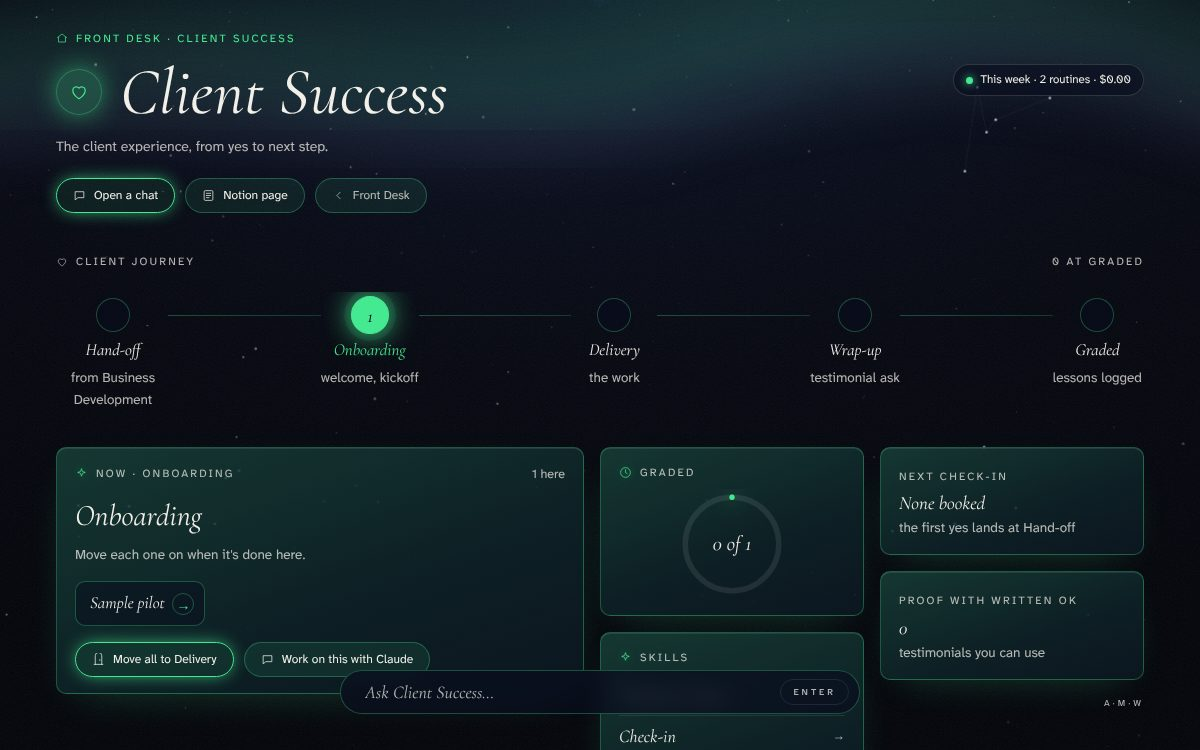
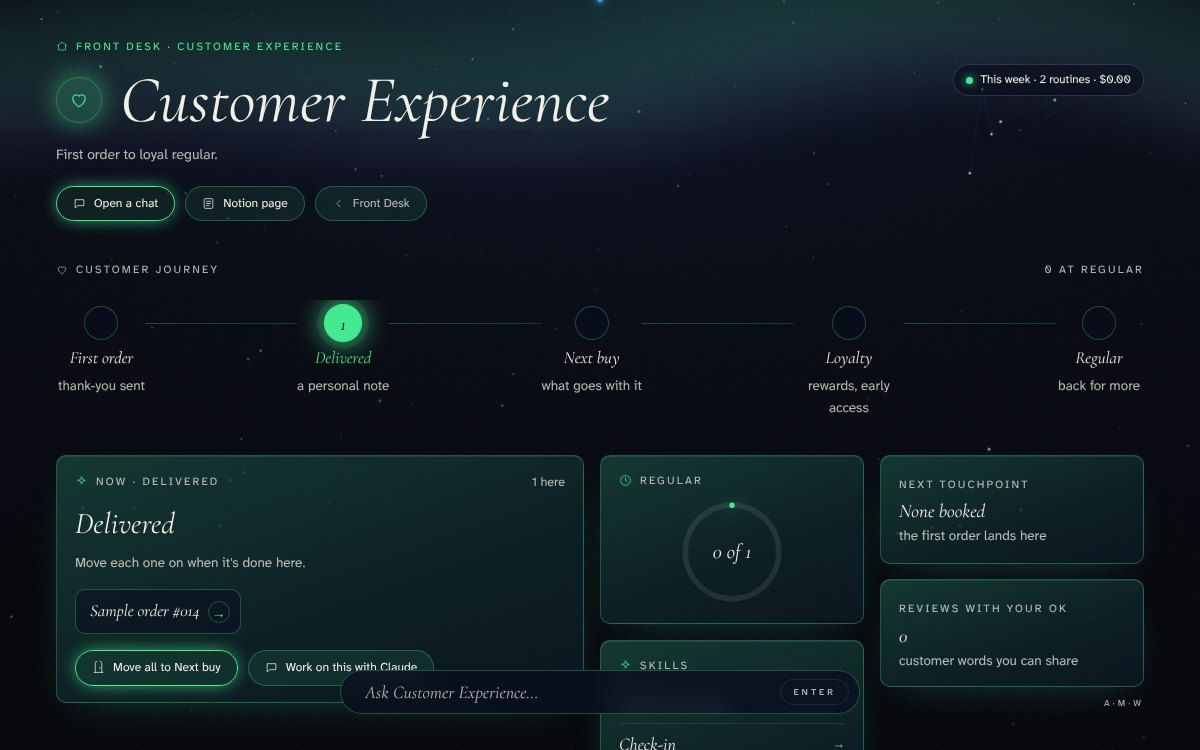
Orbit v1.1 page and site performance pass
Orbit page, reshaped for the sharper ICP:
- Customer Experience helper with a Customer / Community / Client switch
  that swaps the hub image and the helper's name and line
- Your rhythm section (book, collection, single) above "You stay in charge"
- Copy tuned: launch used sparingly in body copy, never in headers;
  closing block names creative, culture-led founders
- Starting-out orbs: hover text fades in without pushing the page down

Site-wide, invisible fixes:
- Home night sky: set its colours on the sky itself, not <html>, and
  measure the page on resize instead of every scroll frame (cuts the
  long tasks while scrolling); phone light line animates with transform
- Opening-at-the-top script no longer yanks visitors back up when the
  page finishes loading after they've started scrolling
- Preload the two opening font faces so headlines don't jump on load

Claude-Session: https://claude.ai/code/session_01FfPBR68zH7fRYW2YepE8Gc

diff --git a/src/orbit/sections-a.html b/src/orbit/sections-a.html
@@ -7,22 +7,27 @@
 
 <section class="pad"><div class="wrap">
   <div class="ch"><p class="caps eyebrow"><i></i>Getting it</p><h2>One conversation. Then it's yours.</h2><p class="body">It asks. It checks with you. Then it builds.</p></div>
-  <div class="flowd"><div class="fn"><svg width="30" height="30" viewBox="0 0 24 24" fill="none" stroke="currentColor" stroke-width="1.5" stroke-linecap="round" stroke-linejoin="round"><path d="M4 5h16v11H9l-5 4z"/></svg><b>1 · The interview</b><span>About an hour. It learns your work, lifestyle, routines, vision and preferences.</span></div><i></i><div class="fn"><svg width="30" height="30" viewBox="0 0 24 24" fill="none" stroke="currentColor" stroke-width="1.5" stroke-linecap="round" stroke-linejoin="round"><path d="M6 3h8l4 4v14H6z"/><path d="M14 3v4h4"/></svg><b>2 · The report</b><span>It plays everything back in full. You fix anything before a thing is built.</span></div><i></i><div class="fn lit"><svg width="30" height="30" viewBox="0 0 24 24" fill="none" stroke="currentColor" stroke-width="1.5" stroke-linecap="round" stroke-linejoin="round"><path d="M3 11l9-7 9 7M5 10v10h14V10"/></svg><b>3 · The build</b><span>Your hub, built the way you said. Opens with a short tour.</span></div></div>
+  <div class="flowd"><div class="fn"><svg width="30" height="30" viewBox="0 0 24 24" fill="none" stroke="currentColor" stroke-width="1.5" stroke-linecap="round" stroke-linejoin="round"><path d="M4 5h16v11H9l-5 4z"/></svg><b>1 · The interview</b><span>About an hour. It learns your work, your rhythm, your people and your vision.</span></div><i></i><div class="fn"><svg width="30" height="30" viewBox="0 0 24 24" fill="none" stroke="currentColor" stroke-width="1.5" stroke-linecap="round" stroke-linejoin="round"><path d="M6 3h8l4 4v14H6z"/><path d="M14 3v4h4"/></svg><b>2 · The report</b><span>It plays everything back in full. You fix anything before a thing is built.</span></div><i></i><div class="fn lit"><svg width="30" height="30" viewBox="0 0 24 24" fill="none" stroke="currentColor" stroke-width="1.5" stroke-linecap="round" stroke-linejoin="round"><path d="M3 11l9-7 9 7M5 10v10h14V10"/></svg><b>3 · The build</b><span>Your hub, built the way you said. Opens with a short tour.</span></div></div>
 </div></section>
 
 <section class="pad"><div class="wrap sp crew">
-  <div class="sl"><div class="ch"><p class="caps eyebrow"><i></i>Your team</p><h2>Six helpers. One pipeline each.</h2></div><div class="hps"><button class="hp on" data-h="bd" style="--hc:#45E992"><i></i><b>Business Development</b><em class="hic"><svg width="16" height="16" viewBox="0 0 24 24" fill="none" stroke="currentColor" stroke-width="1.5" stroke-linecap="round" stroke-linejoin="round"><circle cx="12" cy="12" r="9"/><path d="M15.5 8.5l-2 5-5 2 2-5z"/></svg></em><span>Finds the people your work is for</span></button><button class="hp" data-h="cs" style="--hc:#45E992"><i></i><b>Client Success</b><em class="hic"><svg width="16" height="16" viewBox="0 0 24 24" fill="none" stroke="currentColor" stroke-width="1.5" stroke-linecap="round" stroke-linejoin="round"><path d="M12 20s-7.5-4.6-7.5-10.2A4.2 4.2 0 0 1 12 7.4a4.2 4.2 0 0 1 7.5 2.4C19.5 15.4 12 20 12 20z"/></svg></em><span>From yes to a glowing wrap-up</span></button><button class="hp" data-h="cd" style="--hc:#A996FF"><i></i><b>Creative Director</b><em class="hic"><svg width="16" height="16" viewBox="0 0 24 24" fill="none" stroke="currentColor" stroke-width="1.5" stroke-linecap="round" stroke-linejoin="round"><path d="M2 12s3.8-7 10-7 10 7 10 7-3.8 7-10 7S2 12 2 12z"/><circle cx="12" cy="12" r="3"/></svg></em><span>Keeps your brand and look sharp</span></button><button class="hp" data-h="cp" style="--hc:#A996FF"><i></i><b>Content Producer</b><em class="hic"><svg width="16" height="16" viewBox="0 0 24 24" fill="none" stroke="currentColor" stroke-width="1.5" stroke-linecap="round" stroke-linejoin="round"><rect x="3" y="7" width="12" height="10" rx="2"/><path d="M15 11l6-3v8l-6-3"/></svg></em><span>Turns your ideas and stories into content</span></button><button class="hp" data-h="fo" style="--hc:#4FA8FF"><i></i><b>Funnel OS</b><em class="hic"><svg width="16" height="16" viewBox="0 0 24 24" fill="none" stroke="currentColor" stroke-width="1.5" stroke-linecap="round" stroke-linejoin="round"><path d="M3 4h18l-7 8.5V19l-4 2v-8.5z"/></svg></em><span>Your site, emails and numbers</span></button><button class="hp" data-h="ops" style="--hc:#4FA8FF"><i></i><b>Operations</b><em class="hic"><svg width="16" height="16" viewBox="0 0 24 24" fill="none" stroke="currentColor" stroke-width="1.5" stroke-linecap="round" stroke-linejoin="round"><circle cx="12" cy="12" r="3"/><path d="M12 2v3M12 19v3M2 12h3M19 12h3M4.9 4.9l2.1 2.1M17 17l2.1 2.1M4.9 19.1L7 17M17 7l2.1-2.1"/></svg></em><span>Keeps the whole system in sync</span></button></div></div>
-  <div class="sr"><div class="frame"><div class="rooms"><img data-room="bd" src="__BASE__orbit/09c015c9b7.jpg" alt="Business Development room"><img data-room="cs" src="__BASE__orbit/c768620e99.jpg" alt="Client Success room" hidden><img data-room="cd" src="__BASE__orbit/540423a56b.jpg" alt="Creative Director room" hidden><img data-room="cp" src="__BASE__orbit/80f452b5d3.jpg" alt="Content Producer room" hidden><img data-room="fo" src="__BASE__orbit/4d8e31e8c6.jpg" alt="Funnel OS room" hidden><img data-room="ops" src="__BASE__orbit/713550e906.jpg" alt="Operations room" hidden></div></div></div>
+  <div class="sl"><div class="ch"><p class="caps eyebrow"><i></i>Your team</p><h2>Six helpers. One pipeline each.</h2></div><div class="hps"><button class="hp on" data-h="bd" style="--hc:#45E992"><i></i><b>Business Development</b><em class="hic"><svg width="16" height="16" viewBox="0 0 24 24" fill="none" stroke="currentColor" stroke-width="1.5" stroke-linecap="round" stroke-linejoin="round"><circle cx="12" cy="12" r="9"/><path d="M15.5 8.5l-2 5-5 2 2-5z"/></svg></em><span>Finds the stockists, partners and people your work is for</span></button><button class="hp" data-h="cs" style="--hc:#45E992"><i></i><b>Customer Experience</b><em class="hic"><svg width="16" height="16" viewBox="0 0 24 24" fill="none" stroke="currentColor" stroke-width="1.5" stroke-linecap="round" stroke-linejoin="round"><path d="M12 20s-7.5-4.6-7.5-10.2A4.2 4.2 0 0 1 12 7.4a4.2 4.2 0 0 1 7.5 2.4C19.5 15.4 12 20 12 20z"/></svg></em><span>First order, delivery, the next buy, loyalty</span></button><button class="hp" data-h="cd" style="--hc:#A996FF"><i></i><b>Creative Director</b><em class="hic"><svg width="16" height="16" viewBox="0 0 24 24" fill="none" stroke="currentColor" stroke-width="1.5" stroke-linecap="round" stroke-linejoin="round"><path d="M2 12s3.8-7 10-7 10 7 10 7-3.8 7-10 7S2 12 2 12z"/><circle cx="12" cy="12" r="3"/></svg></em><span>Keeps everything looking like your world</span></button><button class="hp" data-h="cp" style="--hc:#A996FF"><i></i><b>Content Producer</b><em class="hic"><svg width="16" height="16" viewBox="0 0 24 24" fill="none" stroke="currentColor" stroke-width="1.5" stroke-linecap="round" stroke-linejoin="round"><rect x="3" y="7" width="12" height="10" rx="2"/><path d="M15 11l6-3v8l-6-3"/></svg></em><span>Turns the story behind each release into content</span></button><button class="hp" data-h="fo" style="--hc:#4FA8FF"><i></i><b>Funnel OS</b><em class="hic"><svg width="16" height="16" viewBox="0 0 24 24" fill="none" stroke="currentColor" stroke-width="1.5" stroke-linecap="round" stroke-linejoin="round"><path d="M3 4h18l-7 8.5V19l-4 2v-8.5z"/></svg></em><span>Your site, emails and launch pages</span></button><button class="hp" data-h="ops" style="--hc:#4FA8FF"><i></i><b>Operations</b><em class="hic"><svg width="16" height="16" viewBox="0 0 24 24" fill="none" stroke="currentColor" stroke-width="1.5" stroke-linecap="round" stroke-linejoin="round"><circle cx="12" cy="12" r="3"/><path d="M12 2v3M12 19v3M2 12h3M19 12h3M4.9 4.9l2.1 2.1M17 17l2.1 2.1M4.9 19.1L7 17M17 7l2.1-2.1"/></svg></em><span>Keeps the whole system in sync</span></button></div></div>
+  <div class="sr"><div class="frame"><div class="rooms"><img data-room="bd" src="__BASE__orbit/09c015c9b7.jpg" alt="Business Development room"><img data-room="cs" src="__BASE__orbit/c768620e99.jpg" alt="Customer Experience room" hidden><img data-room="cd" src="__BASE__orbit/540423a56b.jpg" alt="Creative Director room" hidden><img data-room="cp" src="__BASE__orbit/80f452b5d3.jpg" alt="Content Producer room" hidden><img data-room="fo" src="__BASE__orbit/4d8e31e8c6.jpg" alt="Funnel OS room" hidden><img data-room="ops" src="__BASE__orbit/713550e906.jpg" alt="Operations room" hidden></div></div><div class="cxsw" data-room="cs" hidden role="tablist" aria-label="Who buys from you"><button type="button" class="on" data-cx="customer">Customer</button><button type="button" data-cx="community">Community</button><button type="button" data-cx="client">Client</button></div></div>
 </div></section>
 
 <section class="pad"><div class="wrap">
   <div class="ch"><p class="caps eyebrow"><i></i>Starting out?</p><h2>The basics, already started.</h2><p class="body">Every gap is a guided session, from idea to plan.</p></div>
-  <div class="sky7"><div class="orb" style="--i:0"><span class="od"><svg width="28" height="28" viewBox="0 0 24 24" fill="none" stroke="currentColor" stroke-width="1.4" stroke-linecap="round" stroke-linejoin="round"><path d="M8 3c0 6 8 6 8 12s-8 6-8 6M16 3c0 6-8 6-8 12s8 6 8 6M9 7h6M9 17h6"/></svg></span><b>Your brand</b><em>The seed</em><small>Voice, look and story, in one place</small></div><div class="orb" style="--i:1"><span class="od"><svg width="28" height="28" viewBox="0 0 24 24" fill="none" stroke="currentColor" stroke-width="1.4" stroke-linecap="round" stroke-linejoin="round"><circle cx="12" cy="12" r="9"/><path d="M15.5 8.5l-2 5-5 2 2-5z"/></svg></span><b>Your mission</b><em>The compass</em><small>Why you do it, in one line</small></div><div class="orb" style="--i:2"><span class="od"><svg width="28" height="28" viewBox="0 0 24 24" fill="none" stroke="currentColor" stroke-width="1.4" stroke-linecap="round" stroke-linejoin="round"><circle cx="12" cy="8" r="3.5"/><path d="M5 21c0-4 3-6.5 7-6.5s7 2.5 7 6.5"/></svg></span><b>Your customer</b><em>The guest of honour</em><small>Who you’re for, and what they need</small></div><div class="orb" style="--i:3"><span class="od"><svg width="28" height="28" viewBox="0 0 24 24" fill="none" stroke="currentColor" stroke-width="1.4" stroke-linecap="round" stroke-linejoin="round"><rect x="5" y="3" width="14" height="18" rx="2"/><path d="M9 8h6M9 12h6M9 16h3"/></svg></span><b>Your offer</b><em>The menu</em><small>Priced from the life you want</small></div><div class="orb" style="--i:4"><span class="od"><svg width="28" height="28" viewBox="0 0 24 24" fill="none" stroke="currentColor" stroke-width="1.4" stroke-linecap="round" stroke-linejoin="round"><path d="M3 4h18l-7 8v6l-4 2v-8z"/></svg></span><b>Your funnel</b><em>The path</em><small>How a stranger becomes a client</small></div><div class="orb" style="--i:5"><span class="od"><svg width="28" height="28" viewBox="0 0 24 24" fill="none" stroke="currentColor" stroke-width="1.4" stroke-linecap="round" stroke-linejoin="round"><circle cx="12" cy="12" r="9"/><path d="M12 7v5l3 2"/></svg></span><b>Your routine</b><em>The weekly beat</em><small>When you make, rest and ship</small></div>
+  <div class="sky7"><div class="orb" style="--i:0"><span class="od"><svg width="28" height="28" viewBox="0 0 24 24" fill="none" stroke="currentColor" stroke-width="1.4" stroke-linecap="round" stroke-linejoin="round"><path d="M8 3c0 6 8 6 8 12s-8 6-8 6M16 3c0 6-8 6-8 12s8 6 8 6M9 7h6M9 17h6"/></svg></span><b>Your brand</b><em>The seed</em><small>Voice, look and story, in one place</small></div><div class="orb" style="--i:1"><span class="od"><svg width="28" height="28" viewBox="0 0 24 24" fill="none" stroke="currentColor" stroke-width="1.4" stroke-linecap="round" stroke-linejoin="round"><circle cx="12" cy="12" r="9"/><path d="M15.5 8.5l-2 5-5 2 2-5z"/></svg></span><b>Your mission</b><em>The compass</em><small>Why you do it, in one line</small></div><div class="orb" style="--i:2"><span class="od"><svg width="28" height="28" viewBox="0 0 24 24" fill="none" stroke="currentColor" stroke-width="1.4" stroke-linecap="round" stroke-linejoin="round"><circle cx="12" cy="8" r="3.5"/><path d="M5 21c0-4 3-6.5 7-6.5s7 2.5 7 6.5"/></svg></span><b>Your customer</b><em>The guest of honour</em><small>Who it’s for, and why they’ll care</small></div><div class="orb" style="--i:3"><span class="od"><svg width="28" height="28" viewBox="0 0 24 24" fill="none" stroke="currentColor" stroke-width="1.4" stroke-linecap="round" stroke-linejoin="round"><rect x="5" y="3" width="14" height="18" rx="2"/><path d="M9 8h6M9 12h6M9 16h3"/></svg></span><b>Your offer</b><em>The menu</em><small>Priced from the life you want</small></div><div class="orb" style="--i:4"><span class="od"><svg width="28" height="28" viewBox="0 0 24 24" fill="none" stroke="currentColor" stroke-width="1.4" stroke-linecap="round" stroke-linejoin="round"><path d="M3 4h18l-7 8v6l-4 2v-8z"/></svg></span><b>Your funnel</b><em>The path</em><small>How a stranger becomes a customer</small></div><div class="orb" style="--i:5"><span class="od"><svg width="28" height="28" viewBox="0 0 24 24" fill="none" stroke="currentColor" stroke-width="1.4" stroke-linecap="round" stroke-linejoin="round"><circle cx="12" cy="12" r="9"/><path d="M12 7v5l3 2"/></svg></span><b>Your rhythm</b><em>The weekly beat</em><small>When you make, rest and release</small></div>
+</div></section>
+
+<section class="pad rhythm"><div class="wrap">
+  <div class="ch"><p class="caps eyebrow"><i></i>Your rhythm</p><h2>Your work keeps its own time.</h2><p class="body">Orbit sets its clock to yours.</p></div>
+  <div class="rhy"><div class="rhy-row"><div class="rh1" style="--c:#7FD8F0;--t:36s"><div class="rh-orb"><span class="rh-trail"></span><span class="rh-sat"></span><span class="rh-core"><svg width="30" height="30" viewBox="0 0 24 24" fill="none" stroke="currentColor" stroke-width="1.4" stroke-linecap="round" stroke-linejoin="round"><path d="M2 5.5c3.2-1.2 6.5-1 10 1.2v13.6c-3.5-2.2-6.8-2.4-10-1.2z"/><path d="M22 5.5c-3.2-1.2-6.5-1-10 1.2v13.6c3.5-2.2 6.8-2.4 10-1.2z"/></svg></span></div><b>A book</b><span class="when">every year or two</span></div><div class="rh1" style="--c:#8FB4F6;--t:14s"><div class="rh-orb"><span class="rh-trail"></span><span class="rh-sat"></span><span class="rh-core"><svg width="30" height="30" viewBox="0 0 24 24" fill="none" stroke="currentColor" stroke-width="1.4" stroke-linecap="round" stroke-linejoin="round"><path d="M8.5 3 3 6l2 4.2 3-1.2V21h8V9l3 1.2L21 6l-5.5-3c-.8 1.4-2 2.1-3.5 2.1S9.3 4.4 8.5 3z"/></svg></span></div><b>A collection</b><span class="when">every season</span></div><div class="rh1" style="--c:#A996FF;--t:5s"><div class="rh-orb"><span class="rh-trail"></span><span class="rh-sat"></span><span class="rh-core"><svg width="30" height="30" viewBox="0 0 24 24" fill="none" stroke="currentColor" stroke-width="1.4" stroke-linecap="round" stroke-linejoin="round"><path d="M9 18V5.5l11-2.2V16"/><circle cx="6" cy="18" r="3"/><circle cx="17" cy="16" r="3"/></svg></span></div><b>A single</b><span class="when">every month</span></div></div><p class="rhy-note">In between launches, your world keeps turning.</p></div>
 </div></section>
 
 <section class="pad"><div class="wrap">
   <div class="ch"><p class="caps eyebrow"><i></i>You stay in charge</p><h2>Nothing moves without you.</h2></div>
-  <div class="trio3"><figure class="tc"><div class="ti mk"><div class="mk-card"><p>Move <b>a fashion label</b> from <em>Engaged</em> to <em>Shared Value</em>?</p><div class="mk-row"><span class="mk-yes">Yes, move it</span><span class="mk-no">Not yet</span></div></div></div><figcaption><b>A check first</b><span>Nothing moves until you tap yes.</span></figcaption></figure><figure class="tc"><div class="ti mk"><div class="mk-notes"><div class="mk-n"><i></i><div><b>Follow-up due today</b><small>A fashion label</small></div><span>Open it</span></div><div class="mk-n"><i></i><div><b>Overdue: funnel audit</b><small>due 28 Oct</small></div><span>Open it</span></div></div></div><figcaption><b>Only what matters</b><span>Just what’s due or overdue. No noise.</span></figcaption></figure><figure class="tc"><div class="ti mk"><div class="mk-use"><span class="mk-chip"><i></i>This week · 2 routines · $0.00</span><div class="mk-rows"><p><span>Routines that ran</span><span>2 of 3</span></p><p><span>Paid add-ons</span><span>$0</span></p></div></div></div><figcaption><b>Track your usage</b><span>Nothing to pay beyond your Claude plan. Add a paid tool and you’ll see it here.</span></figcaption></figure></div>
+  <div class="trio3"><figure class="tc"><div class="ti mk"><div class="mk-card"><p>Move <b>a Fitzroy stockist</b> from <em>Samples sent</em> to <em>Confirmed</em>?</p><div class="mk-row"><span class="mk-yes">Yes, move it</span><span class="mk-no">Not yet</span></div></div></div><figcaption><b>A check first</b><span>Nothing moves until you tap yes.</span></figcaption></figure><figure class="tc"><div class="ti mk"><div class="mk-notes"><div class="mk-n"><i></i><div><b>Follow-up due today</b><small>A Fitzroy stockist</small></div><span>Open it</span></div><div class="mk-n"><i></i><div><b>Overdue: funnel audit</b><small>due 28 Oct</small></div><span>Open it</span></div></div></div><figcaption><b>Only what matters</b><span>Just what’s due or overdue. No noise.</span></figcaption></figure><figure class="tc"><div class="ti mk"><div class="mk-use"><span class="mk-chip"><i></i>This week · 2 routines · $0.00</span><div class="mk-rows"><p><span>Routines that ran</span><span>2 of 3</span></p><p><span>Paid add-ons</span><span>$0</span></p></div></div></div><figcaption><b>Track your usage</b><span>Nothing to pay beyond your Claude plan. Add a paid tool and you’ll see it here.</span></figcaption></figure></div>
 </div></section>
 
 <section class="pad learns"><div class="wrap">
@@ -38,7 +43,7 @@
       <p class="caps lw-rt">Recos <em>· from your hub</em></p>
       <div class="lw-r"><div><p class="caps">Process · Operations</p><b>Turn Decisions into a database</b><small>Easier to read back</small></div><span class="lw-sz">Small</span><span class="lw-add on">Added</span></div>
       <div class="lw-r"><div><p class="caps">Content</p><b>Batch captions with the monthly worksheet</b><small>One sitting instead of four</small></div><span class="lw-sz">Small</span><span class="lw-add">Add to cart</span></div>
-      <div class="lw-r"><div><p class="caps">Sales · Business Development</p><b>Add a two-day follow-up to outreach</b><small>Most replies come on the second nudge</small></div><span class="lw-sz">Medium</span><span class="lw-add">Add to cart</span></div>
+      <div class="lw-r"><div><p class="caps">Sales · Business Development</p><b>Add a two-day follow-up to stockist outreach</b><small>Most replies come on the second nudge</small></div><span class="lw-sz">Medium</span><span class="lw-add">Add to cart</span></div>
       <div class="lw-co"><span>1 in your cart</span><span class="lw-go">Check out to Operations</span></div>
     </div>
   </div>
@@ -89,4 +94,4 @@
 
 
 <section class="pad" id="close"><div class="wrap">
-  <div class="cta"><div class="copy"><p class="caps eyebrow"><i></i>Free, for good</p><h2>Set your world in motion.</h2></div>
+  <div class="cta"><div class="copy"><p class="caps eyebrow"><i></i>Free, for good</p><h2>Set your world in motion.</h2><p class="body forwho">Made for creative, culture-led founders.</p></div>

diff --git a/src/styles/orbit-v04.css b/src/styles/orbit-v04.css
@@ -407,3 +407,32 @@
   .nx .lw-path b{font-size:23px}
   .nx .lw-r:nth-of-type(3){display:none}
 }
+
+/* Orbit v1.1: the faint hint under Customer experience */
+.nx .hp b .hint{display:block;font:400 11px/1.4 'DM Sans',sans-serif;font-style:normal;letter-spacing:.04em;color:var(--d);opacity:.5;margin-top:2px}
+/* Orbit v1.1: your rhythm, three launches, three speeds */
+.nx .rhythm .ch{margin-bottom:28px}
+.nx .rhy{position:relative;max-width:980px;margin:0 auto;padding:clamp(34px,4.5vw,52px) clamp(18px,3vw,40px) clamp(26px,3.5vw,36px);border:1px solid var(--line);border-radius:20px;overflow:hidden;
+  background:radial-gradient(60% 90% at 18% 0%,rgba(127,216,240,.10),transparent 70%),radial-gradient(60% 90% at 82% 100%,rgba(169,150,255,.12),transparent 70%),rgba(255,255,255,.015);
+  box-shadow:0 40px 90px -40px #000,0 0 80px -30px rgba(143,180,246,.25)}
+.nx .rhy-row{position:relative;display:grid;grid-template-columns:repeat(3,1fr);gap:clamp(12px,2vw,28px)}
+.nx .rhy-row::before{content:"";position:absolute;top:84px;left:16%;right:16%;height:1px;background:linear-gradient(90deg,rgba(127,216,240,.0),rgba(143,180,246,.35),rgba(169,150,255,.0));}
+.nx .rh1{position:relative;display:flex;flex-direction:column;align-items:center;text-align:center;gap:4px}
+.nx .rh1 .rh-orb{position:relative;width:168px;height:168px;margin-bottom:16px}
+.nx .rh1 .rh-orb::before{content:"";position:absolute;inset:0;border-radius:50%;border:1px solid color-mix(in srgb,var(--c) 30%,transparent)}
+.nx .rh1 .rh-orb::after{content:"";position:absolute;inset:22px;border-radius:50%;border:1px dashed color-mix(in srgb,var(--c) 16%,transparent)}
+.nx .rh1 .rh-trail{position:absolute;inset:0;border-radius:50%;background:conic-gradient(from 0deg,transparent 0 70%,color-mix(in srgb,var(--c) 55%,transparent) 100%);
+  -webkit-mask:radial-gradient(farthest-side,transparent calc(100% - 2px),#000 calc(100% - 1px));mask:radial-gradient(farthest-side,transparent calc(100% - 2px),#000 calc(100% - 1px));animation:rspin var(--t) linear infinite}
+.nx .rh1 .rh-sat{position:absolute;inset:0;animation:rspin var(--t) linear infinite}
+.nx .rh1 .rh-sat::before{content:"";position:absolute;top:-5px;left:50%;width:10px;height:10px;margin-left:-5px;border-radius:50%;background:#fff;box-shadow:0 0 10px var(--c),0 0 24px var(--c)}
+.nx .rh1 .rh-core{position:absolute;inset:44px;border-radius:50%;display:grid;place-items:center;color:var(--c);
+  background:radial-gradient(circle at 50% 40%,color-mix(in srgb,var(--c) 22%,transparent),rgba(7,11,24,.6) 70%);box-shadow:inset 0 0 0 1px color-mix(in srgb,var(--c) 45%,transparent),0 0 40px -6px var(--c)}
+.nx .rh1 .rh-core svg{filter:drop-shadow(0 0 6px var(--c))}
+.nx .rh1 b{font:italic 400 26px var(--serif);color:#F2F5FF;font-weight:400}
+.nx .rh1 .when{font-size:12px;letter-spacing:.24em;text-transform:uppercase;color:var(--c)}
+.nx .rhy-note{text-align:center;margin:clamp(26px,3.5vw,36px) auto 0;padding-top:clamp(20px,3vw,28px);border-top:1px solid var(--line);color:var(--s);font-family:var(--serif);font-style:italic;font-size:21px;max-width:none}
+@keyframes rspin{to{transform:rotate(360deg)}}
+@media (prefers-reduced-motion:reduce){.nx .rh1 .rh-trail,.nx .rh1 .rh-sat{animation:none}}
+@media (max-width:640px){.nx .rhy-row{grid-template-columns:1fr;gap:30px}.nx .rhy-row::before{display:none}}
+/* Orbit v1.1: hover text fades in place; its line is always reserved, so nothing below moves */
+.nx .orb em{max-height:none!important;height:1.4em;line-height:1.4em;white-space:nowrap}

diff --git a/src/orbit/sections.js b/src/orbit/sections.js
@@ -95,3 +95,9 @@ const stop=()=>{clearInterval(t);t=null;shot.classList.remove('touring');lab.tex
 btn.onclick=()=>{if(t){stop();return;}shot.classList.add('touring');lab.textContent='Pause';if(i>=CAP.length-1)i=-1;show(i+1);t=setInterval(()=>{if(i>=CAP.length-1){stop();return;}show(i+1);},4300);};
 dots.onclick=e=>{const k=[...dots.children].indexOf(e.target);if(k>=0){show(k);}};
 })();
+
+/* Orbit v1.1: Customer / Community / Client switch under the Customer Experience room */
+(function(){var B=(window.ORBIT_HUB||'').replace(/orbit\/hub-demo\.html$/,'');var V={customer:['Customer Experience','First order, delivery, the next buy, loyalty','c768620e99.jpg'],community:['Community Engagement','From first look to inner circle','cx-community.jpg'],client:['Client Success','From yes to a glowing wrap-up','cx-client.jpg']};
+var sw=document.querySelector('.cxsw');var btn=document.querySelector('.hp[data-h="cs"]');var img=document.querySelector('img[data-room="cs"]');if(!sw||!btn||!img)return;
+sw.addEventListener('click',function(e){var b=e.target.closest('button[data-cx]');if(!b)return;var v=V[b.dataset.cx];sw.querySelectorAll('button').forEach(function(x){x.classList.toggle('on',x===b);x.setAttribute('aria-selected',x===b)});
+btn.querySelector('b').textContent=v[0];btn.querySelector('span').textContent=v[1];img.src=B+'orbit/'+v[2];img.alt=v[0]+' room';});})();

diff --git a/CLAUDE.md b/CLAUDE.md
@@ -68,3 +68,9 @@ The site is currently a personal brand and portfolio. The paid offer is archived
 
 ## Field Notes (31 Oct 2026)
 - Field Notes images load live from Instagram (`src/lib/feed.ts`, `src/lib/live.ts`): carousel posts, newest first. The series ends on 8 November 2026, so carousels posted from 9 Nov 2026 (Melbourne) are never counted (`FIELD_NOTES_END`).
+
+## Orbit v1.1 page (31 Oct 2026)
+- Customer Experience (was Client Success) has a Customer / Community / Client switch under its hub image (`.cxsw` in `sections-a.html`, script at the end of `sections.js`). Images: `public/orbit/c768620e99.jpg` (Customer), `cx-community.jpg`, `cx-client.jpg`.
+- "Your rhythm" section (book, collection, single) sits just above "You stay in charge".
+- Copy rule: "launch" is used sparingly in body copy, never in headers. Label sets keep one rhythm ("Your brand, Your mission, Your offer...").
+- Interaction rule (Ashah): hover or reveal text must not push the content below down. Reserve the space and fade it in. Exceptions are allowed, but that's the default.
